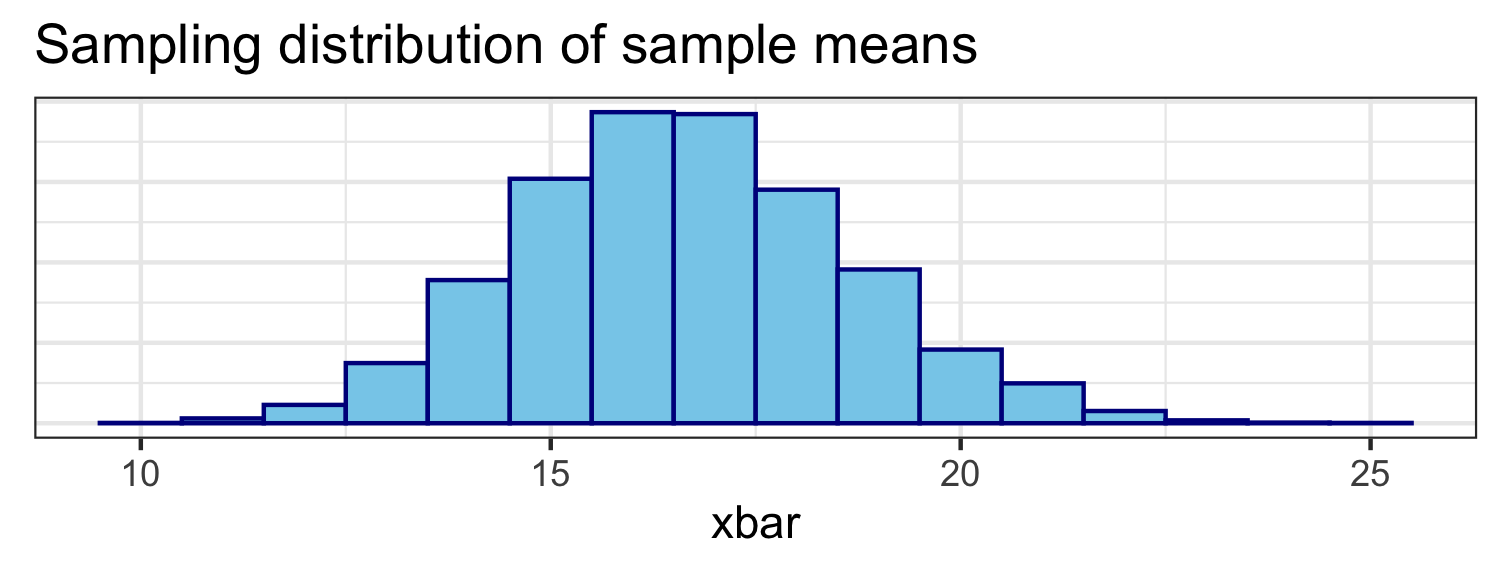
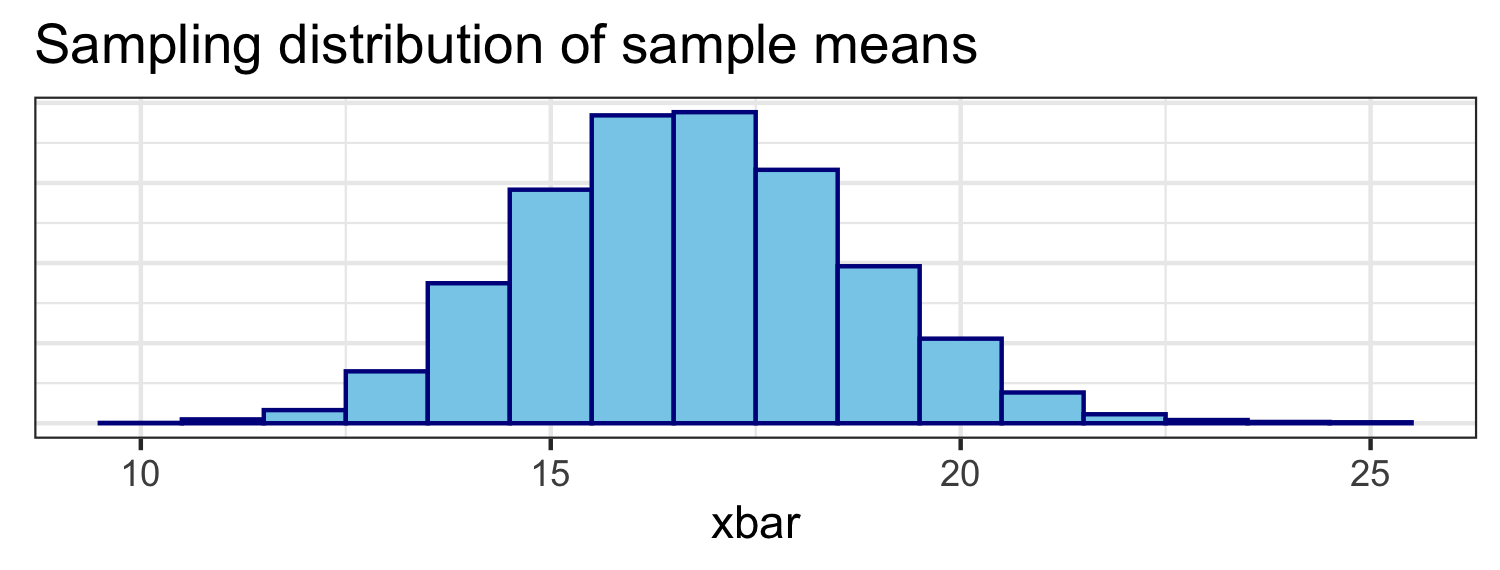
update CLT slides

diff --git a/docs/slides/lec-slides/13-clt.html b/docs/slides/lec-slides/13-clt.html
@@ -51,6 +51,7 @@ sample statistic (sample mean, sample proportion, etc.)
 - Today we talk about some of the theory underlying .vocab[sampling distributions],
 particularly as they relate to sample means.
 
+
 ---
 
 ## Statistical inference
@@ -65,6 +66,35 @@ we must calculate statistics from our sample in order to learn about them.
 sample statistic. 
 
 ---
+
+## Random variables and Distributions
+
+A .vocab[random variable] is a variable whose value is the outcome of a random event. 
+
+In statistics, a .vocab[probability distribution] is the mathematical function that gives the probabilities of occurrence of different possible outcomes/events of a random variable.
+
+--
+
+It can be as simple as a list of outcomes and their associated probabilities. For example, let `\(X\)` be a random variable denoting a fair six-sided die.
+
+|X|1|2|3|4|5|6|
+|-------------|
+|Probability| 1/6| 1/6| 1/6| 1/6| 1/6| 1/6|
+
+---
+
+## Random variables and Distributions
+
+However, it's rarely the case that we have random variables that have so few possible outcomes. 
+
+It would be impossible to write a table of probabilites for distributions with (infinitely) many possible outcomes. For example, what if `\(X\)` = height of students at Duke?
+
+--
+
+Instead, we can define a function that defines the distribution of `\(X\)`. This is just like the table: for a given outcome of `\(X\)`, the function tells you the probability with which that event occurs, according to the distribution.
+
+---
+
 
 ## Sampling distribution of the mean
 
@@ -120,7 +150,7 @@ class: middle
 
 A quick caveat...
 
-For now, let's assume we know the underlying standard deviation, `\(\sigma\)`, from our distribution 
+For now, let's assume we know the underlying standard deviation, `\(\sigma\)`, from our distribution. This is a measure of the amount of variation in a set of values.
 
 ---
 
@@ -256,7 +286,7 @@ samp_1
 ## # A tibble: 1 x 1
 ##   x_bar
 ##   &lt;dbl&gt;
-## 1  15.2
+## 1  14.2
 ```
 
 ---
@@ -280,7 +310,7 @@ samp_2
 ## # A tibble: 1 x 1
 ##   x_bar
 ##   &lt;dbl&gt;
-## 1  20.3
+## 1  16.1
 ```
 ---
 
@@ -303,7 +333,7 @@ samp_3
 ## # A tibble: 1 x 1
 ##   x_bar
 ##   &lt;dbl&gt;
-## 1  22.1
+## 1  17.7
 ```
 
 --
@@ -337,7 +367,7 @@ sampling %&gt;%
 ## # A tibble: 1 x 2
 ##    mean    se
 ##   &lt;dbl&gt; &lt;dbl&gt;
-## 1  16.6  2.00
+## 1  16.7  1.97
 ```
 
 ---
@@ -523,13 +553,20 @@ If you want a different mean and standard deviation (ex. `\(\mu = -2\)` and
 
 
 ```r
-# value at 75-th percentile of N(2, 0.25) distribution
+# value at 75-th percentile of N(-2, 0.25) distribution
 qnorm(0.75, -2, 0.25)
 ```
 
 ```
 ## [1] -1.831378
 ```
+
+
+---
+
+## Different standard deviation
+
+&lt;img src="13-clt_files/figure-html/unnamed-chunk-25-1.png" style="display: block; margin: auto;" /&gt;
     </textarea>
 <style data-target="print-only">@media screen {.remark-slide-container{display:block;}.remark-slide-scaler{box-shadow:none;}}</style>
 <script src="https://remarkjs.com/downloads/remark-latest.min.js"></script>

diff --git a/docs/appex/appex14-clt-inference.html b/docs/appex/appex14-clt-inference.html
@@ -368,7 +368,7 @@ pre code {
 <div id="announcements" class="section level2">
 <h2>Announcements</h2>
 <ul>
-<li><p>There will be no class next Wednesday and Thursday, June 23-24. However, there will still be lab on Friday, June 25. Use this time to work on HW 02.</p></li>
+<li><p>There will be no class next Wednesday and Thursday, June 23-24. However, there will still be lab on Friday, June 25.</p></li>
 <li><p>Becky’s Wednesday office hours will be cancelled due to travel, but are re-scheduled to Thursday, June 24 at 3:00-4:30pm (and by appointment, as always).</p></li>
 </ul>
 </div>
